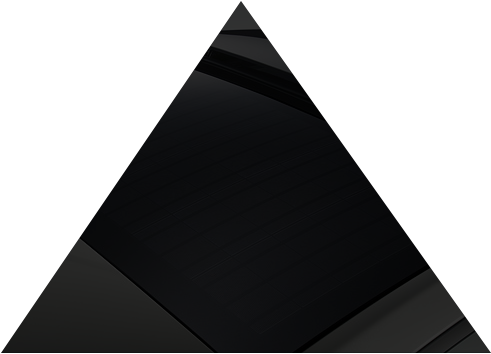
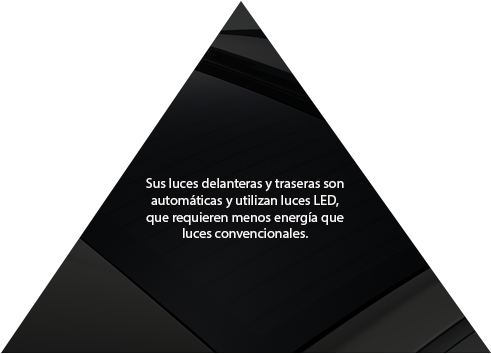
footer finalizado, imagenes cambiadas, bodycopy especificaciones...

Changed region(s): [[0.2749, 0.4972, 0.7026, 0.6836]]

diff --git a/LEAF/css/estilos_home.css b/LEAF/css/estilos_home.css
@@ -1,1 +1,1 @@
-body{width:100%;*zoom:1;}body:before,body:after{content:"";display:table}body:after{clear:both}@font-face{font-family:"NissanAGBold";src:url("http://www.nissan.com.mx/fonts/nissanag-bold-webfont.eot?1397324400");src:url("http://www.nissan.com.mx/fonts/nissanag-bold-webfont.eot?&1397324400#iefix") format('embedded-opentype'),url("http://www.nissan.com.mx/fonts/nissanag-bold-webfont.ttf?1397324400") format('truetype'),url("http://www.nissan.com.mx/fonts/nissanag-bold-webfont.woff?1397324400") format('woff'),url("http://www.nissan.com.mx/fonts/nissanag-bold-webfont.svg?1397324400#NissanAGBold") format('svg')}@font-face{font-family:"NissanAGMedium";src:url("http://www.nissan.com.mx/fonts/nissanag-medium-webfont.eot?1397324400");src:url("http://www.nissan.com.mx/fonts/nissanag-medium-webfont.eot?&1397324400#iefix") format('embedded-opentype'),url("http://www.nissan.com.mx/fonts/nissanag-medium-webfont.ttf?1397324400") format('truetype'),url("http://www.nissan.com.mx/fonts/nissanag-medium-webfont.woff?1397324400") format('woff'),url("http://www.nissan.com.mx/fonts/nissanag-medium-webfont.svg?1397324400#NissanAGMedium") format('svg')}@font-face{font-family:"NissanAGRegular";src:url("http://www.nissan.com.mx/fonts/nissanag-regular-webfont.eot?1397324400");src:url("http://www.nissan.com.mx/fonts/nissanag-regular-webfont.eot?&1397324400#iefix") format('embedded-opentype'),url("http://www.nissan.com.mx/fonts/nissanag-regular-webfont.ttf?1397324400") format('truetype'),url("http://www.nissan.com.mx/fonts/nissanag-regular-webfont.eot.woff?1397324400") format('woff'),url("http://www.nissan.com.mx/fonts/nissanag-regular-webfont.svg?1397324400#NissanAGRegular") format('svg')}@font-face{font-family:"NissanAGMedExt";src:url("http://www.nissan.com.mx/fonts/nissanag-medext-webfont.eot?1397324400");src:url("http://www.nissan.com.mx/fonts/nissanag-medext-webfont.eot?&1397324400#iefix") format('embedded-opentype'),url("http://www.nissan.com.mx/fonts/nissanag-medext-webfont.ttf?1397324400") format('truetype'),url("http://www.nissan.com.mx/fonts/nissanag-medext-webfont.woff?1397324400") format('woff'),url("http://www.nissan.com.mx/fonts/nissanag-medext-webfont.svg?1397324400#NissanAGMedExt") format('svg')}@font-face{font-family:'Myriad Pro Regular';font-style:normal;font-weight:normal;src:url("../fonts/MYRIADPRO-REGULAR.woff") format('woff')}@font-face{font-family:'Lucida Grande';font-style:normal;font-weight:normal;src:url("../fonts/LucidaGrande.ttc") format 'ttc'}body{font-family:"Lucida Grande" !important;margin-top:true;margin:0 auto !important;width:100%;color:#000;overflow-x:hidden}section{margin:0 auto !important;color:#000}header{min-height:90px;heigth:90px;max-heightmax-width:960px;color:#f5f5f5;margin:0 auto !important;background-color:#fff;position:fixed;z-index:9000;width:100%}footer{min-height:100px;height:100px;background-color:#00202e;color:#fff}a,a:hover,a:visited{color:#000;text-decoration:none}h1{font-size:2.5em !important;color:#292929;font-weight:lighter;font-family:'Myriad Pro Regular' !important}h2{font-size:2em !important;color:#292929;font-weight:lighter;font-family:'Myriad Pro Regular' !important}h3{font-family:'Myriad Pro Regular' !important;font-weight:lighter}h4{font-size:1em !important;font-family:'Myriad Pro Regular' !important;font-weight:lighter}.container{width:100%;max-width:1600px;margin:0 auto !important}.elemenup{display:inline-block;margin:0 2%;font-weight:lighter}.elemenup a{color:#a4a4a4}.elemenup a:hover{color:#373737}.carg{text-align:center}img{margin:0 auto}#carseg{width:500px;position:absolute;margin-left:720px;margin-top:180px}.carruselseg{text-align:center;}.carruselseg img{margin:0 auto}.elmenuf{display:inline-block;margin:0 2%;color:#fff}.pie{display:inline-block}#conthead{max-width:960px;margin:0 auto 0 16%;position:fixed;background-color:#fff;width:960px}#logo{width:8.25% !important;display:inline;float:left;overflow:hidden;width:6.25%;margin:0 1.0416666666667%;*width:6.25% -correction;*margin:0 1.0416666666667% -correction}#menup{display:inline;float:left;overflow:hidden;width:81.25%;margin:0 1.0416666666667%;*width:81.25% -correction;*margin:0 1.0416666666667% -correction;width:84.25%;text-align:center;margin-top:4%}#menuli{display:inline-block;display:inline;float:left;overflow:hidden;width:81.25%;margin:0 1.0416666666667%;*width:81.25% -correction;*margin:0 1.0416666666667% -correction}#menupreg{display:inline;float:left;overflow:hidden;width:14.5833333333333%;margin:0 1.0416666666667%;*width:14.5833333333333% -correction;*margin:0 1.0416666666667% -correction}#sec01{height:390px;background-color:#f5f5f5}#contsec01{display:inline;float:left;overflow:hidden;width:81.25%;margin:0 1.0416666666667%;*width:81.25% -correction;*margin:0 1.0416666666667% -correction;margin-left:9.375%;text-align:center;}#contsec01 h1{margin:10% 0 0 0}#textosmenup{display:inline;float:left;overflow:hidden;width:81.25%;margin:0 1.0416666666667%;*width:81.25% -correction;*margin:0 1.0416666666667% -correction;}#textosmenup h1{margin:0 auto}#textosmenup p{margin:0 auto}#secfoto01{height:440px;width:100%}#secmix{height:1050px}#contsecmix{display:inline;float:left;overflow:hidden;width:97.9166666666667%;margin:0 1.0416666666667%;*width:97.9166666666667% -correction;*margin:0 1.0416666666667% -correction}#mixsuperior{min-height:420px;height:420px;background-color:#fff}#nuevogad{text-align:center;display:inline;float:left;overflow:hidden;width:64.5833333333333%;margin:0 1.0416666666667%;*width:64.5833333333333% -correction;*margin:0 1.0416666666667% -correction;margin-left:17.7083333333333%}#txtgad{text-align:center;display:inline;float:left;overflow:hidden;width:81.25%;margin:0 1.0416666666667%;*width:81.25% -correction;*margin:0 1.0416666666667% -correction;margin-left:9.375%}#iconmotor{padding:12% 0 0 0}#imgmotor{display:inline;float:left;overflow:hidden;width:89.5833333333333%;margin:0 1.0416666666667%;*width:89.5833333333333% -correction;*margin:0 1.0416666666667% -correction;margin-left:9.375%;position:absolute;z-index:30000}#titmotor{display:inline;float:left;overflow:hidden;width:89.5833333333333%;margin:0 1.0416666666667%;*width:89.5833333333333% -correction;*margin:0 1.0416666666667% -correction;margin-left:9.375%;margin-top:80px}#txtmotor{display:inline;float:left;overflow:hidden;width:47.9166666666667%;margin:0 1.0416666666667%;*width:47.9166666666667% -correction;*margin:0 1.0416666666667% -correction;margin-left:9.375%}#imgmateriales{position:absolute;z-index:8999;right:0;margin-top:100px;margin-right:250px}#titmateriales{display:inline;float:left;overflow:hidden;width:22.9166666666667%;margin:0 1.0416666666667%;*width:22.9166666666667% -correction;*margin:0 1.0416666666667% -correction;margin-left:67.7083333333333%;margin-top:80px}#txtmateriales{display:inline;float:left;overflow:hidden;width:56.25%;margin:0 1.0416666666667%;*width:56.25% -correction;*margin:0 1.0416666666667% -correction;margin-left:34.375%}#imgsobre{display:inline;float:left;overflow:hidden;width:97.9166666666667%;margin:0 1.0416666666667%;*width:97.9166666666667% -correction;*margin:0 1.0416666666667% -correction;z-index:3200;position:absolute;margin:-15% 0 0 0}#imgsobre img{display:inline;float:left;overflow:hidden;width:81.25%;margin:0 1.0416666666667%;*width:81.25% -correction;*margin:0 1.0416666666667% -correction;margin-left:17.7083333333333%}#mixinferior{min-height:630px;height:630px;background-color:#f5f5f5}#iconmateriales{margin:10% 0 0 0}#youtube{height:670px;min-height:670px;border-bottom-style:solid;border-bottom-color:#f5f5f5;border-bottom-width:5px}#contyoutube{display:inline;float:left;overflow:hidden;width:97.9166666666667%;margin:0 1.0416666666667%;*width:97.9166666666667% -correction;*margin:0 1.0416666666667% -correction;height:100%;background-color:#fff}#contyoutube p{position:relative;width:70%;margin:6% 30% -4%}#videoyt{display:inline;float:left;overflow:hidden;width:81.25%;margin:0 1.0416666666667%;*width:81.25% -correction;*margin:0 1.0416666666667% -correction;margin-left:9.375%;text-align:center}#videoyt iframe{margin:10% 0}#zero{height:780px;min-height:780px;background-color:#fff}#contseczero{display:inline;float:left;overflow:hidden;width:97.9166666666667%;margin:0 1.0416666666667%;*width:97.9166666666667% -correction;*margin:0 1.0416666666667% -correction}#imgzero{text-align:center;display:inline;float:left;overflow:hidden;width:47.9166666666667%;margin:0 1.0416666666667%;*width:47.9166666666667% -correction;*margin:0 1.0416666666667% -correction;margin-left:26.041666666666703%;margin-top:7%}#txtzero{text-align:center;display:inline;float:left;overflow:hidden;width:81.25%;margin:0 1.0416666666667%;*width:81.25% -correction;*margin:0 1.0416666666667% -correction;margin-left:9.375%;margin-top:5%}#triangulo{height:360px;width:460px;background-size:contain;background-repeat:no-repeat;margin-top:25%;margin-left:auto;margin-right:auto;transition:background-image .2s ease-in-out;background-image:url("../img/LEAF-m/TrianguloAleronTrasero4.png")}#triangulo:hover{background-image:url("../img/LEAF-m/TrianguloAleronTrasero.png")}#lucesLED{text-align:center;display:inline;float:left;overflow:hidden;width:31.25%;margin:0 1.0416666666667%;*width:31.25% -correction;*margin:0 1.0416666666667% -correction;margin-left:34.375%;margin-top:0}#secfoto02{height:650px;background-image:url("../img/LEAF-m/CarParque.png")}#gadgets{height:550px;min-height:550px}#contgad{display:inline;float:left;overflow:hidden;width:97.9166666666667%;margin:0 1.0416666666667%;*width:97.9166666666667% -correction;*margin:0 1.0416666666667% -correction}#intro-contgad h2{width:50%;margin:3% auto;text-align:center}#intro-contgad p{width:46%;margin:auto;text-align:center}#modob{text-align:center;display:inline;float:left;overflow:hidden;width:31.25%;margin:0 1.0416666666667%;*width:31.25% -correction;*margin:0 1.0416666666667% -correction;margin-left:9.375%;margin-top:5%}#modoeco{text-align:center;display:inline;float:left;overflow:hidden;width:31.25%;margin:0 1.0416666666667%;*width:31.25% -correction;*margin:0 1.0416666666667% -correction;margin-left:17.7083333333333%;margin-top:5%}#limpia{height:365px;max-height:365px;background-image:url("../img/Leaf-y/barra-azul.png");background-size:contain;background-repeat:no-repeat;margin:0 auto}#contseclimpia{text-align:center;display:inline;float:left;overflow:hidden;width:97.9166666666667%;margin:0 1.0416666666667%;*width:97.9166666666667% -correction;*margin:0 1.0416666666667% -correction}#titlimpia{display:inline;float:left;overflow:hidden;width:31.25%;margin:0 1.0416666666667%;*width:31.25% -correction;*margin:0 1.0416666666667% -correction;margin-left:34.375%;margin-top:7%}#txtlimpia{display:inline;float:left;overflow:hidden;width:47.9166666666667%;margin:0 1.0416666666667%;*width:47.9166666666667% -correction;*margin:0 1.0416666666667% -correction;margin-left:26.041666666666703%}#cargadores{height:600px;position:relative;background-image:url("../img/Leaf-y/coche.png");background-color:#f5f5f5;background-repeat:no-repeat;background-size:contains}#contcargadores{width:500px;position:absolute;margin-left:650px;margin-top:150px}.slick-dots li button:before{color:#00f !important}#imagen{margin-left:30% !important}.titcar{margin-left:30% !important}.txtcar{margin-left:30% !important}.slick-dots{margin-left:17% !important}.slick-prev{display:none !important}.slick-next{display:none !important}#autonomia{height:390px;min-height:390px;background-color:#fff;position:relative}#contauton{position:absolute;top:50%;transform:translateY(-50%);display:inline;float:left;overflow:hidden;width:97.9166666666667%;margin:0 1.0416666666667%;*width:97.9166666666667% -correction;*margin:0 1.0416666666667% -correction}#imgauton{margin-top:42px !important;text-align:center;display:inline;float:left;overflow:hidden;width:14.5833333333333%;margin:0 1.0416666666667%;*width:14.5833333333333% -correction;*margin:0 1.0416666666667% -correction;margin-left:9.375%}#imgauton img,#textos{display:inline;float:left;overflow:hidden;width:64.5833333333333%;margin:0 1.0416666666667%;*width:64.5833333333333% -correction;*margin:0 1.0416666666667% -correction}#secfoto03{height:490px}#titauton h2{letter-spacing:5px}#txtauton{width:80%}#seguridad{height:760px;background-image:url("../img/Leaf-y/llanta.png");background-repeat:no-repeat;background-size:contains}#contseg{display:inline;float:left;overflow:hidden;width:97.9166666666667%;margin:0 1.0416666666667%;*width:97.9166666666667% -correction;*margin:0 1.0416666666667% -correction}#txtseg{display:inline;float:left;overflow:hidden;width:39.5833333333333%;margin:0 1.0416666666667%;*width:39.5833333333333% -correction;*margin:0 1.0416666666667% -correction;margin-left:59.375%}#secfoto04{height:560px}#contfoot{color:#fff;display:inline;float:left;overflow:hidden;width:97.9166666666667%;margin:0 1.0416666666667%;*width:97.9166666666667% -correction;*margin:0 1.0416666666667% -correction;display:inline-block}#menufoot{display:inline;float:left;overflow:hidden;width:56.25%;margin:0 1.0416666666667%;*width:56.25% -correction;*margin:0 1.0416666666667% -correction;text-align:left;margin-top:4%}#menufoot ul{display:inline;float:left;overflow:hidden;width:56.25%;margin:0 1.0416666666667%;*width:56.25% -correction;*margin:0 1.0416666666667% -correction;font-size:.85em}#menufoot ul a li{font-weight:lighter;color:#004463}#menufoot ul a li:hover,#sociales{display:inline;float:left;overflow:hidden;width:39.5833333333333%;margin:0 1.0416666666667%;*width:39.5833333333333% -correction;*margin:0 1.0416666666667% -correction;margin-top:3%}#sociales a{display:inline-block}#sociales ul{display:inline;float:left;overflow:hidden;width:39.5833333333333%;margin:0 1.0416666666667%;*width:39.5833333333333% -correction;*margin:0 1.0416666666667% -correction}#faq{height:800px;background-color:#f5f5f5}#divmenu1footer{width:50%}.menufooter{text-decoration:none;display:inline-block;padding-right:5%;padding-top:7%}.menufooter a{font-family:'Myriad Pro Regular';font-weight:lighter;color:#004463}.menufooter a:hover{font-family:'Myriad Pro Regular';font-weight:lighter;color:#0076ab}
+body{width:100%;*zoom:1;}body:before,body:after{content:"";display:table}body:after{clear:both}@font-face{font-family:"NissanAGBold";src:url("http://www.nissan.com.mx/fonts/nissanag-bold-webfont.eot?1397324400");src:url("http://www.nissan.com.mx/fonts/nissanag-bold-webfont.eot?&1397324400#iefix") format('embedded-opentype'),url("http://www.nissan.com.mx/fonts/nissanag-bold-webfont.ttf?1397324400") format('truetype'),url("http://www.nissan.com.mx/fonts/nissanag-bold-webfont.woff?1397324400") format('woff'),url("http://www.nissan.com.mx/fonts/nissanag-bold-webfont.svg?1397324400#NissanAGBold") format('svg')}@font-face{font-family:"NissanAGMedium";src:url("http://www.nissan.com.mx/fonts/nissanag-medium-webfont.eot?1397324400");src:url("http://www.nissan.com.mx/fonts/nissanag-medium-webfont.eot?&1397324400#iefix") format('embedded-opentype'),url("http://www.nissan.com.mx/fonts/nissanag-medium-webfont.ttf?1397324400") format('truetype'),url("http://www.nissan.com.mx/fonts/nissanag-medium-webfont.woff?1397324400") format('woff'),url("http://www.nissan.com.mx/fonts/nissanag-medium-webfont.svg?1397324400#NissanAGMedium") format('svg')}@font-face{font-family:"NissanAGRegular";src:url("http://www.nissan.com.mx/fonts/nissanag-regular-webfont.eot?1397324400");src:url("http://www.nissan.com.mx/fonts/nissanag-regular-webfont.eot?&1397324400#iefix") format('embedded-opentype'),url("http://www.nissan.com.mx/fonts/nissanag-regular-webfont.ttf?1397324400") format('truetype'),url("http://www.nissan.com.mx/fonts/nissanag-regular-webfont.eot.woff?1397324400") format('woff'),url("http://www.nissan.com.mx/fonts/nissanag-regular-webfont.svg?1397324400#NissanAGRegular") format('svg')}@font-face{font-family:"NissanAGMedExt";src:url("http://www.nissan.com.mx/fonts/nissanag-medext-webfont.eot?1397324400");src:url("http://www.nissan.com.mx/fonts/nissanag-medext-webfont.eot?&1397324400#iefix") format('embedded-opentype'),url("http://www.nissan.com.mx/fonts/nissanag-medext-webfont.ttf?1397324400") format('truetype'),url("http://www.nissan.com.mx/fonts/nissanag-medext-webfont.woff?1397324400") format('woff'),url("http://www.nissan.com.mx/fonts/nissanag-medext-webfont.svg?1397324400#NissanAGMedExt") format('svg')}@font-face{font-family:'Myriad Pro Regular';font-style:normal;font-weight:normal;src:url("../fonts/MYRIADPRO-REGULAR.woff") format('woff')}@font-face{font-family:'Lucida Grande';font-style:normal;font-weight:normal;src:url("../fonts/LucidaGrande.ttc") format 'ttc'}body{font-family:"Lucida Grande" !important;margin-top:true;margin:0 auto !important;width:100%;color:#000;overflow-x:hidden}section{margin:0 auto !important;color:#000}header{min-height:90px;heigth:90px;max-heightmax-width:960px;color:#f5f5f5;margin:0 auto !important;background-color:#fff;position:fixed;z-index:9000;width:100%}footer{min-height:100px;height:100px;background-color:#00202e;color:#fff;margin-top:-3%}a,a:hover,a:visited{color:#000;text-decoration:none}h1{font-size:2.5em !important;color:#292929;font-weight:lighter;font-family:'Myriad Pro Regular' !important}h2{font-size:2em !important;color:#292929;font-weight:lighter;font-family:'Myriad Pro Regular' !important}h3{font-family:'Myriad Pro Regular' !important;font-weight:lighter}h4{font-size:1em !important;font-family:'Myriad Pro Regular' !important;font-weight:lighter}.container{width:100%;max-width:1600px;margin:0 auto !important}.elemenup{display:inline-block;margin:0 2%;font-weight:lighter}.elemenup a{color:#a4a4a4}.elemenup a:hover{color:#373737}.carg{text-align:center}img{margin:0 auto}#carseg{width:500px;position:absolute;margin-left:720px;margin-top:180px}.carruselseg{text-align:center;}.carruselseg img{margin:0 auto}.elmenuf{display:inline-block;margin:0 2%;color:#fff}.pie{display:inline-block}#conthead{max-width:960px;margin:0 auto 0 16%;position:fixed;background-color:#fff;width:960px}#logo{width:8.25% !important;display:inline;float:left;overflow:hidden;width:6.25%;margin:0 1.0416666666667%;*width:6.25% -correction;*margin:0 1.0416666666667% -correction}#menup{display:inline;float:left;overflow:hidden;width:81.25%;margin:0 1.0416666666667%;*width:81.25% -correction;*margin:0 1.0416666666667% -correction;width:84.25%;text-align:center;margin-top:4%}#menuli{display:inline-block;display:inline;float:left;overflow:hidden;width:81.25%;margin:0 1.0416666666667%;*width:81.25% -correction;*margin:0 1.0416666666667% -correction}#menupreg{display:inline;float:left;overflow:hidden;width:14.5833333333333%;margin:0 1.0416666666667%;*width:14.5833333333333% -correction;*margin:0 1.0416666666667% -correction}#sec01{height:390px;background-color:#f5f5f5}#contsec01{display:inline;float:left;overflow:hidden;width:81.25%;margin:0 1.0416666666667%;*width:81.25% -correction;*margin:0 1.0416666666667% -correction;margin-left:9.375%;text-align:center;margin-top:4%;}#contsec01 h1{margin:10% 0 0 0}#textosmenup{display:inline;float:left;overflow:hidden;width:81.25%;margin:0 1.0416666666667%;*width:81.25% -correction;*margin:0 1.0416666666667% -correction;}#textosmenup h1{margin:0 auto}#textosmenup p{margin:0 auto}#secfoto01{height:440px;width:100%}#secmix{height:1050px}#contsecmix{display:inline;float:left;overflow:hidden;width:97.9166666666667%;margin:0 1.0416666666667%;*width:97.9166666666667% -correction;*margin:0 1.0416666666667% -correction}#mixsuperior{min-height:420px;height:420px;background-color:#fff}#nuevogad{text-align:center;display:inline;float:left;overflow:hidden;width:64.5833333333333%;margin:0 1.0416666666667%;*width:64.5833333333333% -correction;*margin:0 1.0416666666667% -correction;margin-left:17.7083333333333%}#txtgad{text-align:center;display:inline;float:left;overflow:hidden;width:81.25%;margin:0 1.0416666666667%;*width:81.25% -correction;*margin:0 1.0416666666667% -correction;margin-left:9.375%}#iconmotor{padding:12% 0 0 0}#imgmotor{display:inline;float:left;overflow:hidden;width:89.5833333333333%;margin:0 1.0416666666667%;*width:89.5833333333333% -correction;*margin:0 1.0416666666667% -correction;margin-left:9.375%;position:absolute;z-index:30000}#titmotor{display:inline;float:left;overflow:hidden;width:89.5833333333333%;margin:0 1.0416666666667%;*width:89.5833333333333% -correction;*margin:0 1.0416666666667% -correction;margin-left:9.375%;margin-top:80px}#txtmotor{display:inline;float:left;overflow:hidden;width:47.9166666666667%;margin:0 1.0416666666667%;*width:47.9166666666667% -correction;*margin:0 1.0416666666667% -correction;margin-left:9.375%}#imgmateriales{position:absolute;z-index:8999;right:0;margin-top:100px;margin-right:250px}#titmateriales{display:inline;float:left;overflow:hidden;width:22.9166666666667%;margin:0 1.0416666666667%;*width:22.9166666666667% -correction;*margin:0 1.0416666666667% -correction;margin-left:67.7083333333333%;margin-top:80px}#txtmateriales{display:inline;float:left;overflow:hidden;width:56.25%;margin:0 1.0416666666667%;*width:56.25% -correction;*margin:0 1.0416666666667% -correction;margin-left:34.375%}#imgsobre{display:inline;float:left;overflow:hidden;width:97.9166666666667%;margin:0 1.0416666666667%;*width:97.9166666666667% -correction;*margin:0 1.0416666666667% -correction;z-index:3200;position:absolute;margin:-15% 0 0 0}#imgsobre img{display:inline;float:left;overflow:hidden;width:81.25%;margin:0 1.0416666666667%;*width:81.25% -correction;*margin:0 1.0416666666667% -correction;margin-left:17.7083333333333%}#mixinferior{min-height:630px;height:630px;background-color:#f5f5f5}#iconmateriales{margin:10% 0 0 0}#youtube{height:670px;min-height:670px;border-bottom-style:solid;border-bottom-color:#f5f5f5;border-bottom-width:5px}#contyoutube{display:inline;float:left;overflow:hidden;width:97.9166666666667%;margin:0 1.0416666666667%;*width:97.9166666666667% -correction;*margin:0 1.0416666666667% -correction;height:100%;background-color:#fff}#contyoutube p{position:relative;width:70%;margin:6% 30% -4%}#videoyt{display:inline;float:left;overflow:hidden;width:81.25%;margin:0 1.0416666666667%;*width:81.25% -correction;*margin:0 1.0416666666667% -correction;margin-left:9.375%;text-align:center}#videoyt iframe{margin:10% 0}#zero{height:780px;min-height:780px;background-color:#fff}#contseczero{display:inline;float:left;overflow:hidden;width:97.9166666666667%;margin:0 1.0416666666667%;*width:97.9166666666667% -correction;*margin:0 1.0416666666667% -correction}#imgzero{text-align:center;display:inline;float:left;overflow:hidden;width:47.9166666666667%;margin:0 1.0416666666667%;*width:47.9166666666667% -correction;*margin:0 1.0416666666667% -correction;margin-left:26.041666666666703%;margin-top:7%}#txtzero{text-align:center;display:inline;float:left;overflow:hidden;width:81.25%;margin:0 1.0416666666667%;*width:81.25% -correction;*margin:0 1.0416666666667% -correction;margin-left:9.375%;margin-top:5%}#triangulo{height:360px;width:460px;background-size:contain;background-repeat:no-repeat;margin-top:25%;margin-left:auto;margin-right:auto;transition:background-image .2s ease-in-out;background-image:url("../img/LEAF-m/TrianguloLucesTraseras.png")}#triangulo:hover{background-image:url("../img/LEAF-m/TrianguloAleronTrasero3.png")}#lucesLED{text-align:center;display:inline;float:left;overflow:hidden;width:31.25%;margin:0 1.0416666666667%;*width:31.25% -correction;*margin:0 1.0416666666667% -correction;margin-left:34.375%;margin-top:0}#secfoto02{height:650px;background-image:url("../img/LEAF-m/CarParque.png")}#gadgets{height:550px;min-height:550px}#contgad{display:inline;float:left;overflow:hidden;width:97.9166666666667%;margin:0 1.0416666666667%;*width:97.9166666666667% -correction;*margin:0 1.0416666666667% -correction}#intro-contgad h2{width:50%;margin:3% auto;text-align:center}#intro-contgad p{width:46%;margin:auto;text-align:center}#modob{text-align:center;display:inline;float:left;overflow:hidden;width:31.25%;margin:0 1.0416666666667%;*width:31.25% -correction;*margin:0 1.0416666666667% -correction;margin-left:9.375%;margin-top:5%}#modoeco{text-align:center;display:inline;float:left;overflow:hidden;width:31.25%;margin:0 1.0416666666667%;*width:31.25% -correction;*margin:0 1.0416666666667% -correction;margin-left:17.7083333333333%;margin-top:5%}#limpia{height:365px;max-height:365px;background-image:url("../img/Leaf-y/barra-azul.png");background-size:contain;background-repeat:no-repeat;margin:0 auto}#contseclimpia{text-align:center;display:inline;float:left;overflow:hidden;width:97.9166666666667%;margin:0 1.0416666666667%;*width:97.9166666666667% -correction;*margin:0 1.0416666666667% -correction}#titlimpia{display:inline;float:left;overflow:hidden;width:31.25%;margin:0 1.0416666666667%;*width:31.25% -correction;*margin:0 1.0416666666667% -correction;margin-left:34.375%;margin-top:7%}#txtlimpia{display:inline;float:left;overflow:hidden;width:47.9166666666667%;margin:0 1.0416666666667%;*width:47.9166666666667% -correction;*margin:0 1.0416666666667% -correction;margin-left:26.041666666666703%}#cargadores{height:600px;position:relative;background-image:url("../img/Leaf-y/coche.png");background-color:#f5f5f5;background-repeat:no-repeat;background-size:contains}#contcargadores{width:500px;position:absolute;margin-left:650px;margin-top:150px}.slick-dots li button:before{color:#00f !important}#imagen{margin-left:30% !important}.titcar{margin-left:30% !important}.txtcar{margin-left:30% !important}.slick-dots{margin-left:17% !important}.slick-prev{display:none !important}.slick-next{display:none !important}#autonomia{height:390px;min-height:390px;background-color:#fff;position:relative}#contauton{position:absolute;top:50%;transform:translateY(-50%);display:inline;float:left;overflow:hidden;width:97.9166666666667%;margin:0 1.0416666666667%;*width:97.9166666666667% -correction;*margin:0 1.0416666666667% -correction}#imgauton{margin-top:42px !important;text-align:center;display:inline;float:left;overflow:hidden;width:14.5833333333333%;margin:0 1.0416666666667%;*width:14.5833333333333% -correction;*margin:0 1.0416666666667% -correction;margin-left:9.375%}#imgauton img,#textos{display:inline;float:left;overflow:hidden;width:64.5833333333333%;margin:0 1.0416666666667%;*width:64.5833333333333% -correction;*margin:0 1.0416666666667% -correction}#secfoto03{height:490px}#titauton h2{letter-spacing:5px}#txtauton{width:80%}#seguridad{height:760px;background-image:url("../img/Leaf-y/llanta.png");background-repeat:no-repeat;background-size:contains}#contseg{display:inline;float:left;overflow:hidden;width:97.9166666666667%;margin:0 1.0416666666667%;*width:97.9166666666667% -correction;*margin:0 1.0416666666667% -correction}#txtseg{display:inline;float:left;overflow:hidden;width:39.5833333333333%;margin:0 1.0416666666667%;*width:39.5833333333333% -correction;*margin:0 1.0416666666667% -correction;margin-left:59.375%}#secfoto04{height:560px}#contfoot{color:#fff;display:inline;float:left;overflow:hidden;width:97.9166666666667%;margin:0 1.0416666666667%;*width:97.9166666666667% -correction;*margin:0 1.0416666666667% -correction;display:inline-block}#menufoot{display:inline;float:left;overflow:hidden;width:56.25%;margin:0 1.0416666666667%;*width:56.25% -correction;*margin:0 1.0416666666667% -correction;text-align:left;margin-top:4%}#menufoot ul{display:inline;float:left;overflow:hidden;width:56.25%;margin:0 1.0416666666667%;*width:56.25% -correction;*margin:0 1.0416666666667% -correction;font-size:.85em}#menufoot ul a li{font-weight:lighter;color:#004463}#menufoot ul a li:hover,#sociales{display:inline;float:left;overflow:hidden;width:39.5833333333333%;margin:0 1.0416666666667%;*width:39.5833333333333% -correction;*margin:0 1.0416666666667% -correction;margin-top:3%}#sociales a{display:inline-block}#sociales ul{display:inline;float:left;overflow:hidden;width:39.5833333333333%;margin:0 1.0416666666667%;*width:39.5833333333333% -correction;*margin:0 1.0416666666667% -correction}#faq{height:800px;background-color:#f5f5f5}#divmenu1footer{width:50%}.menufooter{text-decoration:none;display:inline-block;padding-right:5%;padding-top:7%}.menufooter a{font-family:'Myriad Pro Regular';font-weight:lighter;color:#004463}.menufooter a:hover{font-family:'Myriad Pro Regular';font-weight:lighter;color:#0076ab}#menus{width:50%;float:right;margin-top:-7.5%}#menus ul{margin-left:16%}#footspecs{min-height:100px;height:100px;background-color:#00202e;color:#fff;margin-top:189%}

diff --git a/LEAF/especificaciones.html b/LEAF/especificaciones.html
@@ -5,6 +5,7 @@
 	<title>Especificaciones LEAF</title>
 	<link rel="stylesheet" href="css/estilos_home.css">
 	<link rel="stylesheet" href="css/espec_estilos.css">
+	<link rel="stylesheet" href="fonts/font-awesome-4.1.0/css/font-awesome.min.css">
 </head>
 <body>
 	<div class="container">
@@ -127,7 +128,7 @@
 						<h2>In the box</h2>
 					</div>
 					<div id="txtd6">
-						<p>Nissan LEAF <br>Cargador Tipo 1 <br>Manual de usuario</p>
+						<p>Nissan LEAF&#174; <br>Cargador Nivel 1 <br>Manual de usuario</p>
 					</div>
 				</div>
 
@@ -136,7 +137,25 @@
 				</div>
 			</div>
 		</section>
-
+		<footer id="footspecs">
+					<div id="divmenu1footer">
+						<ul>
+							<li class="menufooter"><a href="http://www.nissan.com.mx/contacto">Contacto</a></li>
+							<li class="menufooter"><a href="">Aviso de privacidad</a></li>
+							<li class="menufooter"><a href="http://www.nissan.com.mx">Nissan México</a></li>
+							<li class="menufooter"><a href="">Nissan&#174; 2014 </a></li>
+						</ul>
+					</div>
+					<div id="menus">
+							<ul>
+								<li class="menufooter"><a href="https://twitter.com/Nissan_mx"><i class="fa fa-twitter fa-2x"></i></a></li>
+								<li class="menufooter"><a href="https://www.facebook.com/nissanmx"><i  class="fa fa-facebook fa-2x"></i></a></li>
+								<li class="menufooter"><a href="https://www.plus.google.com/+Nissan/posts"><i  class="fa fa-google-plus fa-2x"></i></a></li>
+								<li class="menufooter"><a href="https://www.youtube.com/user/NissanMx1"><i  class="fa fa-youtube fa-2x"></i></a></li>
+								<li class="menufooter"><a href=""><i class="fa fa-share-alt fa-2x"></i></a></li>
+							</ul>
+						</div>
+		</footer>
 	</div>
 </body>
 </html>

diff --git a/LEAF/index.html b/LEAF/index.html
@@ -8,7 +8,7 @@
 	<link rel="stylesheet" type="text/css" href="css/flip.css">
 	<link rel="stylesheet" type="text/css" href="css/msnry.css">
 	<link rel="stylesheet" href="//cdnjs.cloudflare.com/ajax/libs/magnific-popup.js/0.9.9/magnific-popup.css">
-	<link rel="stylesheet" href="../fonts/font-awesome-4.1.0/css/font-awesome.min.css">
+	<link rel="stylesheet" href="fonts/font-awesome-4.1.0/css/font-awesome.min.css">
 
 </head>
 <body>
@@ -277,11 +277,11 @@
 			</div>
 			<div id="menus">
 					<ul>
-						<li><a href=""><i class="fa fa-camera-retro"></i></a></li>
-						<li><a href=""><i></i></a></li>
-						<li><a href=""><i></i></a></li>
-						<li><a href=""><i></i></a></li>
-						<li><a href=""><i></i></a></li>
+						<li class="menufooter"><a href=""><i class="fa fa-twitter fa-2x"></i></a></li>
+						<li class="menufooter"><a href=""><i  class="fa fa-facebook fa-2x"></i></a></li>
+						<li class="menufooter"><a href=""><i  class="fa fa-google-plus fa-2x"></i></a></li>
+						<li class="menufooter"><a href=""><i  class="fa fa-youtube fa-2x"></i></a></li>
+						<li class="menufooter"><a href=""><i class="fa fa-share-alt fa-2x"></i></a></li>
 					</ul>
 				</div>
 		</footer>
